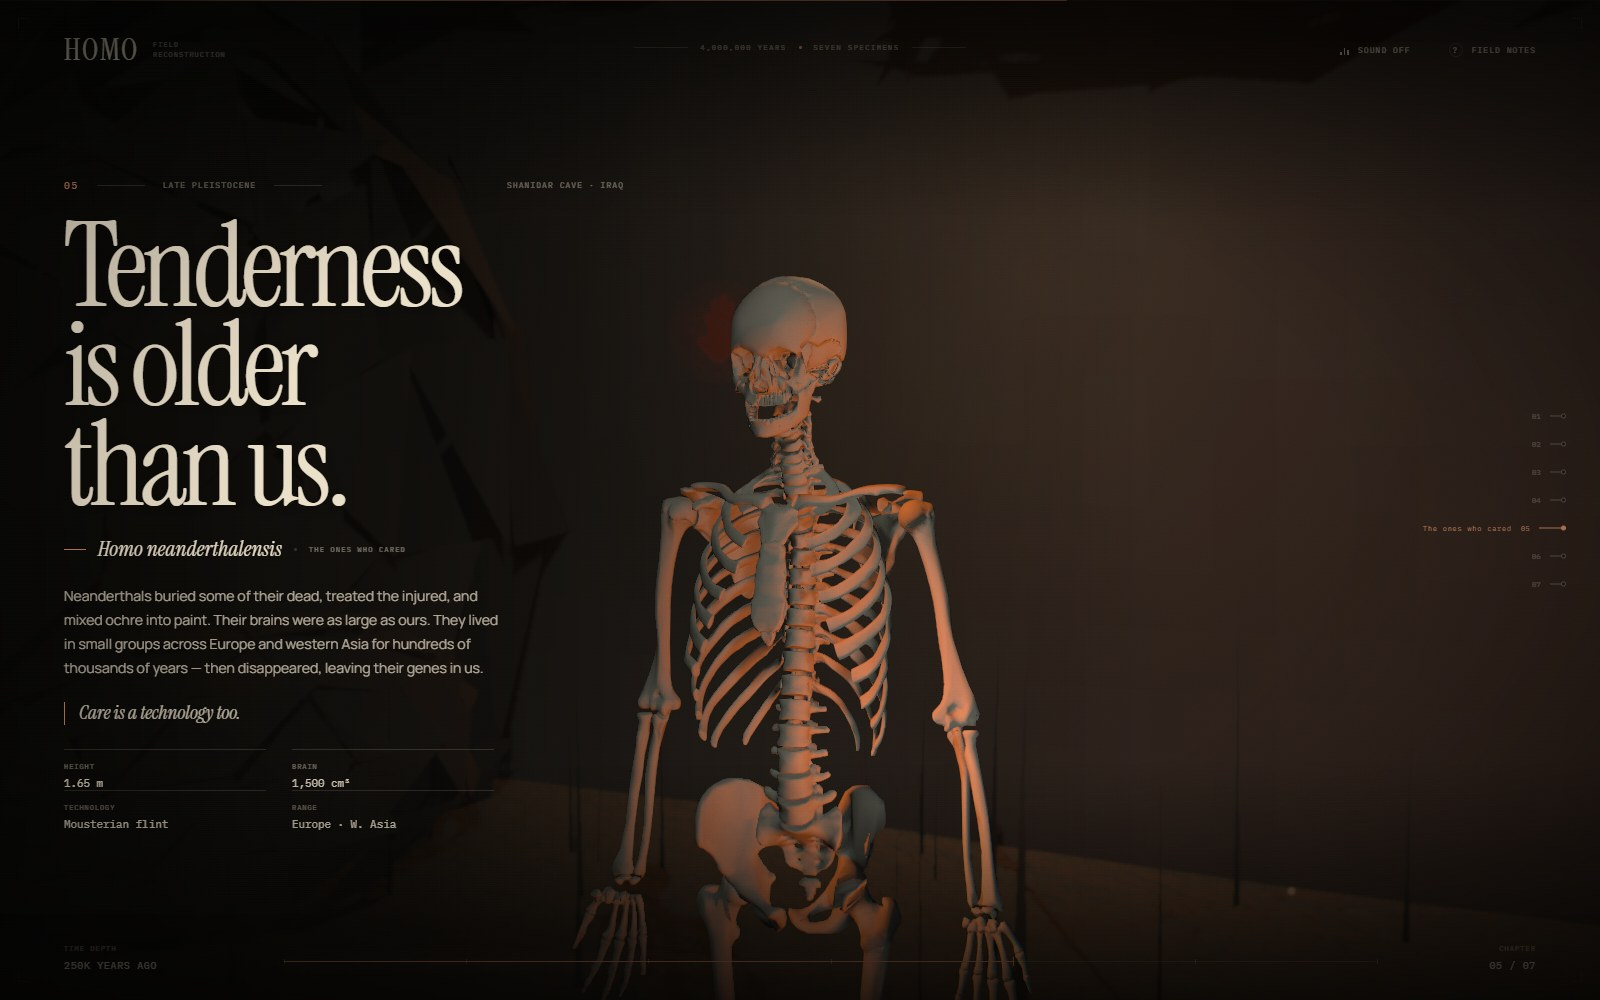
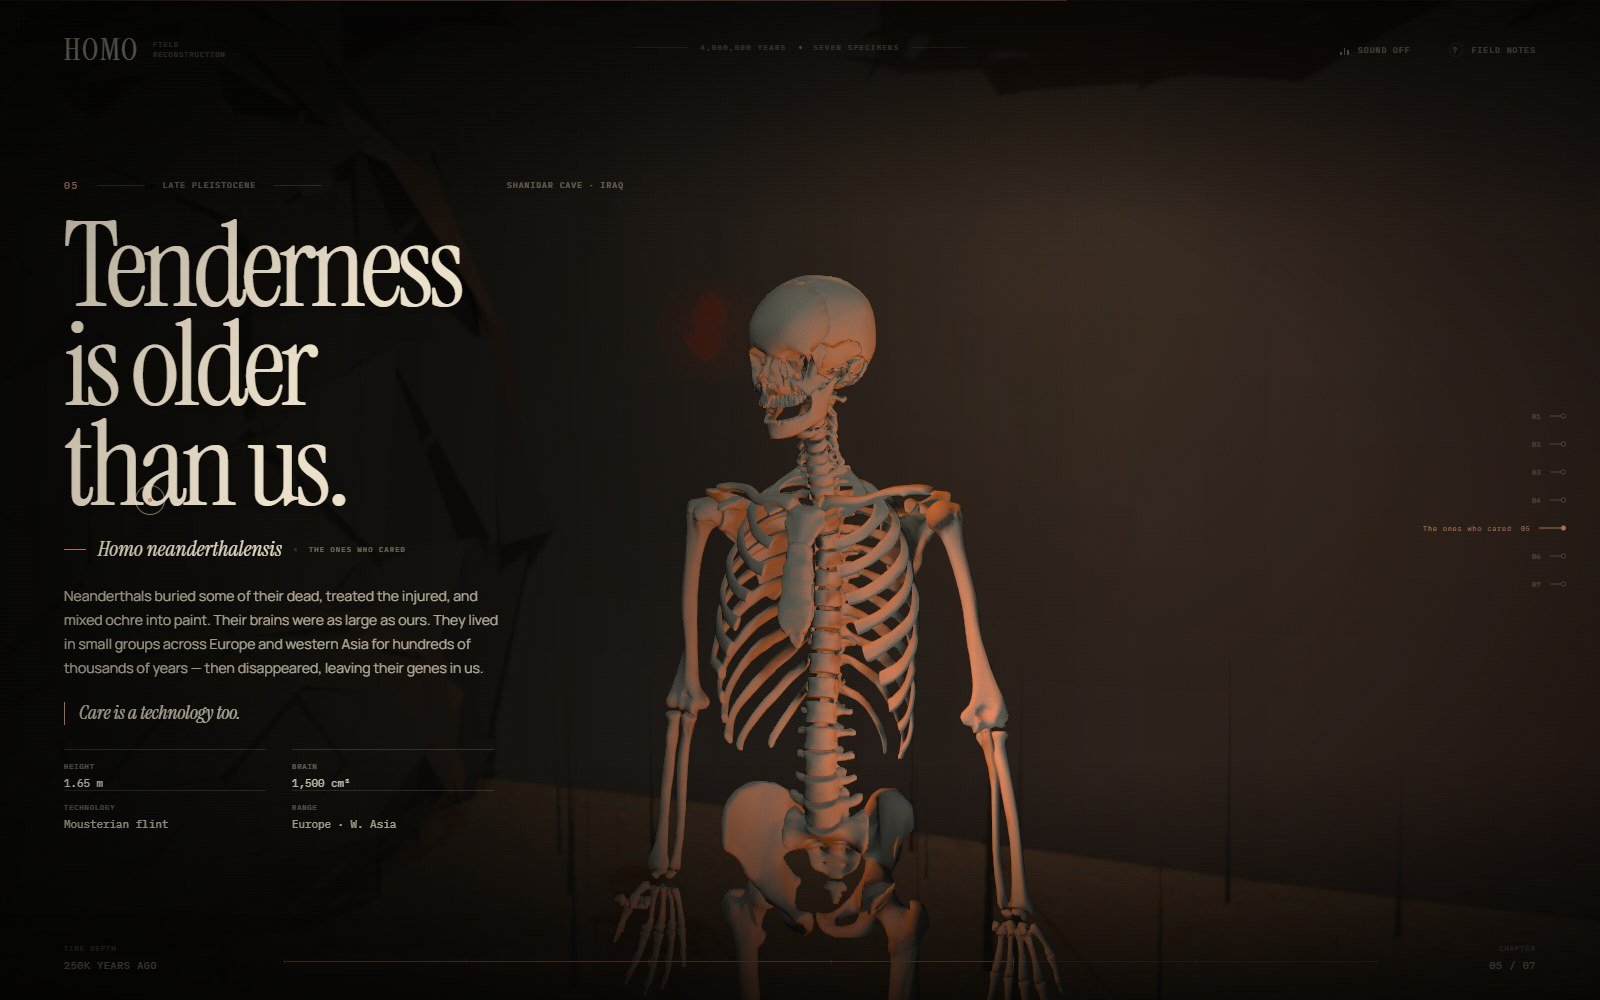
Strengthen in-place idle and add pointer-following head

Changed region(s): [[0.375, 0.279, 0.6562, 1.0]]

diff --git a/src/hominid.js b/src/hominid.js
@@ -169,6 +169,8 @@ export class Hominid {
     this.targetColor = new THREE.Color(this.current.skin);
     this.currentFur = 0;
     this.stageIndex = 0;
+    this.lookX = 0;
+    this.lookY = 0;
     this.prefersReducedMotion =
       typeof window !== "undefined" &&
       window.matchMedia?.("(prefers-reduced-motion: reduce)").matches;
@@ -827,8 +829,8 @@ export class Hominid {
     this.furGroup.visible = false;
   }
 
-  animateRig(time) {
-    if (!this.rigRest || this.prefersReducedMotion) return;
+  animateRig(time, delta) {
+    if (!this.rigRest) return;
     const r = this.rigRest;
     const n = this.rigNodes;
     const head = n.RIG_head;
@@ -836,66 +838,74 @@ export class Hominid {
     const chest = n.RIG_chest;
     if (!head || !neck || !chest) return;
 
+    const motion = this.prefersReducedMotion ? 0.35 : 1;
+    const pointerX = this.pointer?.x ?? 0;
+    const pointerY = this.pointer?.y ?? 0;
+    this.lookX = THREE.MathUtils.damp(this.lookX, pointerX * 0.26, 2.6, delta);
+    this.lookY = THREE.MathUtils.damp(this.lookY, -pointerY * 0.09, 2.6, delta);
+
     const breath = Math.sin(time * 1.15);
     const slow = Math.sin(time * 0.19);
     const headYaw =
-      0.085 * Math.sin(time * 0.21 + 0.6) +
-      0.035 * Math.sin(time * 0.073 + 2.2);
-    // Brief glances to alternating sides.
-    const glanceA = 0.14 * Math.exp(-Math.pow(((time % 17) - 6.2) / 1.35, 2));
-    const glanceB = -0.11 * Math.exp(-Math.pow(((time % 29) - 19.5) / 1.5, 2));
-    const glance = glanceA + glanceB;
+      0.12 * Math.sin(time * 0.21 + 0.6) +
+      0.05 * Math.sin(time * 0.073 + 2.2);
+    // A brief glance to alternating sides.
+    const glanceA = 0.18 * Math.exp(-Math.pow(((time % 17) - 6.2) / 1.35, 2));
+    const glanceB = -0.15 * Math.exp(-Math.pow(((time % 29) - 19.5) / 1.5, 2));
+    const glance = (glanceA + glanceB) * motion;
     const headPitch =
-      0.022 * Math.sin(time * 0.37 + 1.2) +
-      0.01 * Math.sin(time * 0.17 - 0.4);
-    const headRoll = 0.012 * Math.sin(time * 0.29 + 0.4);
+      (0.035 * Math.sin(time * 0.37 + 1.2) + 0.015 * Math.sin(time * 0.17 - 0.4)) * motion;
+    const headRoll = 0.018 * Math.sin(time * 0.29 + 0.4) * motion;
+    const trackedYaw = THREE.MathUtils.clamp(this.lookX * motion, -0.3, 0.3);
+    const trackedPitch = THREE.MathUtils.clamp(this.lookY * motion, -0.08, 0.08);
+    const yaw = THREE.MathUtils.clamp(headYaw * motion + glance + trackedYaw, -0.42, 0.42);
 
-    head.rotation.x = r.RIG_head.x + headPitch + breath * 0.002;
-    head.rotation.y = r.RIG_head.y + headYaw + glance;
+    head.rotation.x = r.RIG_head.x + headPitch + trackedPitch + breath * 0.002;
+    head.rotation.y = r.RIG_head.y + yaw;
     head.rotation.z = r.RIG_head.z + headRoll;
 
-    neck.rotation.x = r.RIG_neck.x + headPitch * 0.34;
-    neck.rotation.y = r.RIG_neck.y + headYaw * 0.3 + glance * 0.2;
+    neck.rotation.x = r.RIG_neck.x + (headPitch + trackedPitch) * 0.34;
+    neck.rotation.y = r.RIG_neck.y + yaw * 0.32;
     neck.rotation.z = r.RIG_neck.z + headRoll * 0.35;
 
-    chest.rotation.x = r.RIG_chest.x + breath * 0.0025;
-    chest.rotation.y = r.RIG_chest.y + headYaw * 0.07 + glance * 0.04;
-    chest.rotation.z = r.RIG_chest.z + slow * 0.0035;
-    chest.scale.y = 1 + breath * 0.0025;
+    chest.rotation.x = r.RIG_chest.x + breath * 0.0035 * motion;
+    chest.rotation.y = r.RIG_chest.y + yaw * 0.08;
+    chest.rotation.z = r.RIG_chest.z + slow * 0.005 * motion;
+    chest.scale.y = 1 + breath * 0.0035 * motion;
 
     const armL = time * 0.46;
     const armR = time * 0.41 + 1.8;
-    const gestureL = 0.07 * Math.exp(-Math.pow(((time % 23) - 9.4) / 1.5, 2));
-    const gestureR = 0.055 * Math.exp(-Math.pow(((time % 27) - 18.2) / 1.6, 2));
+    const gestureL = 0.12 * Math.exp(-Math.pow(((time % 23) - 9.4) / 1.5, 2)) * motion;
+    const gestureR = 0.095 * Math.exp(-Math.pow(((time % 27) - 18.2) / 1.6, 2)) * motion;
 
     if (n.RIG_shoulderL) {
       n.RIG_shoulderL.rotation.x =
-        r.RIG_shoulderL.x + 0.03 + Math.sin(armL + 0.7) * 0.038 + gestureL;
+        r.RIG_shoulderL.x + 0.045 + Math.sin(armL + 0.7) * 0.055 + gestureL;
       n.RIG_shoulderL.rotation.z =
-        r.RIG_shoulderL.z - 0.016 + Math.sin(time * 0.37 + 1.4) * 0.016;
+        r.RIG_shoulderL.z - 0.022 + Math.sin(time * 0.37 + 1.4) * 0.022;
     }
     if (n.RIG_elbowL) {
       n.RIG_elbowL.rotation.x =
-        r.RIG_elbowL.x + 0.05 + Math.sin(armL + 2.1) * 0.044 + gestureL * 1.6;
+        r.RIG_elbowL.x + 0.065 + Math.sin(armL + 2.1) * 0.06 + gestureL * 1.7;
     }
     if (n.RIG_wristL) {
-      n.RIG_wristL.rotation.x = r.RIG_wristL.x + Math.sin(time * 0.51 + 1.1) * 0.03;
-      n.RIG_wristL.rotation.z = r.RIG_wristL.z + Math.sin(time * 0.43) * 0.02;
+      n.RIG_wristL.rotation.x = r.RIG_wristL.x + Math.sin(time * 0.51 + 1.1) * 0.04;
+      n.RIG_wristL.rotation.z = r.RIG_wristL.z + Math.sin(time * 0.43) * 0.03;
     }
 
     if (n.RIG_shoulderR) {
       n.RIG_shoulderR.rotation.x =
-        r.RIG_shoulderR.x + 0.024 + Math.sin(armR + 0.4) * 0.034 + gestureR;
+        r.RIG_shoulderR.x + 0.036 + Math.sin(armR + 0.4) * 0.05 + gestureR;
       n.RIG_shoulderR.rotation.z =
-        r.RIG_shoulderR.z + 0.014 - Math.sin(time * 0.35 + 2.2) * 0.015;
+        r.RIG_shoulderR.z + 0.018 - Math.sin(time * 0.35 + 2.2) * 0.02;
     }
     if (n.RIG_elbowR) {
       n.RIG_elbowR.rotation.x =
-        r.RIG_elbowR.x + 0.044 + Math.sin(armR + 1.7) * 0.04 + gestureR * 1.5;
+        r.RIG_elbowR.x + 0.058 + Math.sin(armR + 1.7) * 0.055 + gestureR * 1.6;
     }
     if (n.RIG_wristR) {
-      n.RIG_wristR.rotation.x = r.RIG_wristR.x + Math.sin(time * 0.47 + 2.3) * 0.026;
-      n.RIG_wristR.rotation.z = r.RIG_wristR.z + Math.sin(time * 0.39 + 0.6) * 0.016;
+      n.RIG_wristR.rotation.x = r.RIG_wristR.x + Math.sin(time * 0.47 + 2.3) * 0.035;
+      n.RIG_wristR.rotation.z = r.RIG_wristR.z + Math.sin(time * 0.39 + 0.6) * 0.025;
     }
   }
 
@@ -1139,14 +1149,14 @@ export class Hominid {
     if (this.anatomyReady && this.anatomyGroup) {
       const scale = h / this.anatomyBaseHeight;
       this.anatomyGroup.scale.setScalar(scale);
-      this.anatomyGroup.position.set(slow * h * 0.006, 0, 0);
+      this.anatomyGroup.position.set(slow * h * 0.008, 0, 0);
       this.anatomyGroup.rotation.set(
         cur.spineX * 0.34 + Math.sin(time * 0.31) * 0.003,
         Math.sin(time * 0.19) * 0.012,
-        slow * 0.012,
+        slow * 0.016,
       );
       this.anatomyMaterial.color.copy(this.currentColor);
-      this.animateRig(time);
+      this.animateRig(time, delta);
     }
 
     this.root.updateMatrixWorld(true);

diff --git a/index.html b/index.html
@@ -139,7 +139,7 @@
           </div>
           <div>
             <h3>THE CRAFT</h3>
-            <p>An anatomical skeleton from BodyParts3D / Z-Anatomy, split into a joint hierarchy and decimated in Blender. Head, neck, arms and wrists keep a low idle; hand-written shaders and a post-processing pipeline do the rest. Built with Three.js.</p>
+            <p>An anatomical skeleton from BodyParts3D / Z-Anatomy, split into a joint hierarchy and decimated in Blender. Head, neck, arms and wrists keep a low idle; on desktop the head follows your pointer. Hand-written shaders and a post-processing pipeline do the rest. Built with Three.js.</p>
           </div>
         </div>
         <p class="info-credit">

diff --git a/src/main.js b/src/main.js
@@ -678,6 +678,7 @@ function animate() {
   if (world && hominid) {
     blendTargets();
     world.update(stageFloat, time, delta, pointerSmooth);
+    hominid.pointer = pointerSmooth;
     hominid.update(time, delta, {
       figure: targetFigure,
       pose: targetPose,

diff --git a/README.md b/README.md
@@ -40,7 +40,7 @@ The landscape changes with it: a Pliocene dusk, a Pleistocene campfire, an ice-a
 ## Craft notes
 
 - **Anatomical specimen**: a full human skeleton from BodyParts3D / Z-Anatomy, split into a joint hierarchy in Blender, reduced from ~499k to ~127k triangles, and driven through seven scales and postures.
-- **Idle performance**: head glances with a counter-rotating neck, breathing chest, shoulder sway, elbow drift and small wrist movements — never a frozen statue.
+- **Idle performance**: head glances with a counter-rotating neck, breathing chest, shoulder sway, elbow drift and small wrist movements — and on desktop it follows the pointer. Never a frozen statue.
 - **Cinematic camera**: scroll-driven dolly moves, shallow depth of field focused on the specimen, and a slower pull-back for the final chapter.
 - **Film pipeline**: AgX tone mapping, bloom, depth of field, chromatic aberration, SMAA, vignette and animated grain via `postprocessing`.
 - **Photographic atmosphere**: a CC0 equirectangular sky panorama feeds a custom cloud/detail shader; PBR normal and roughness maps add scale to the ground.
